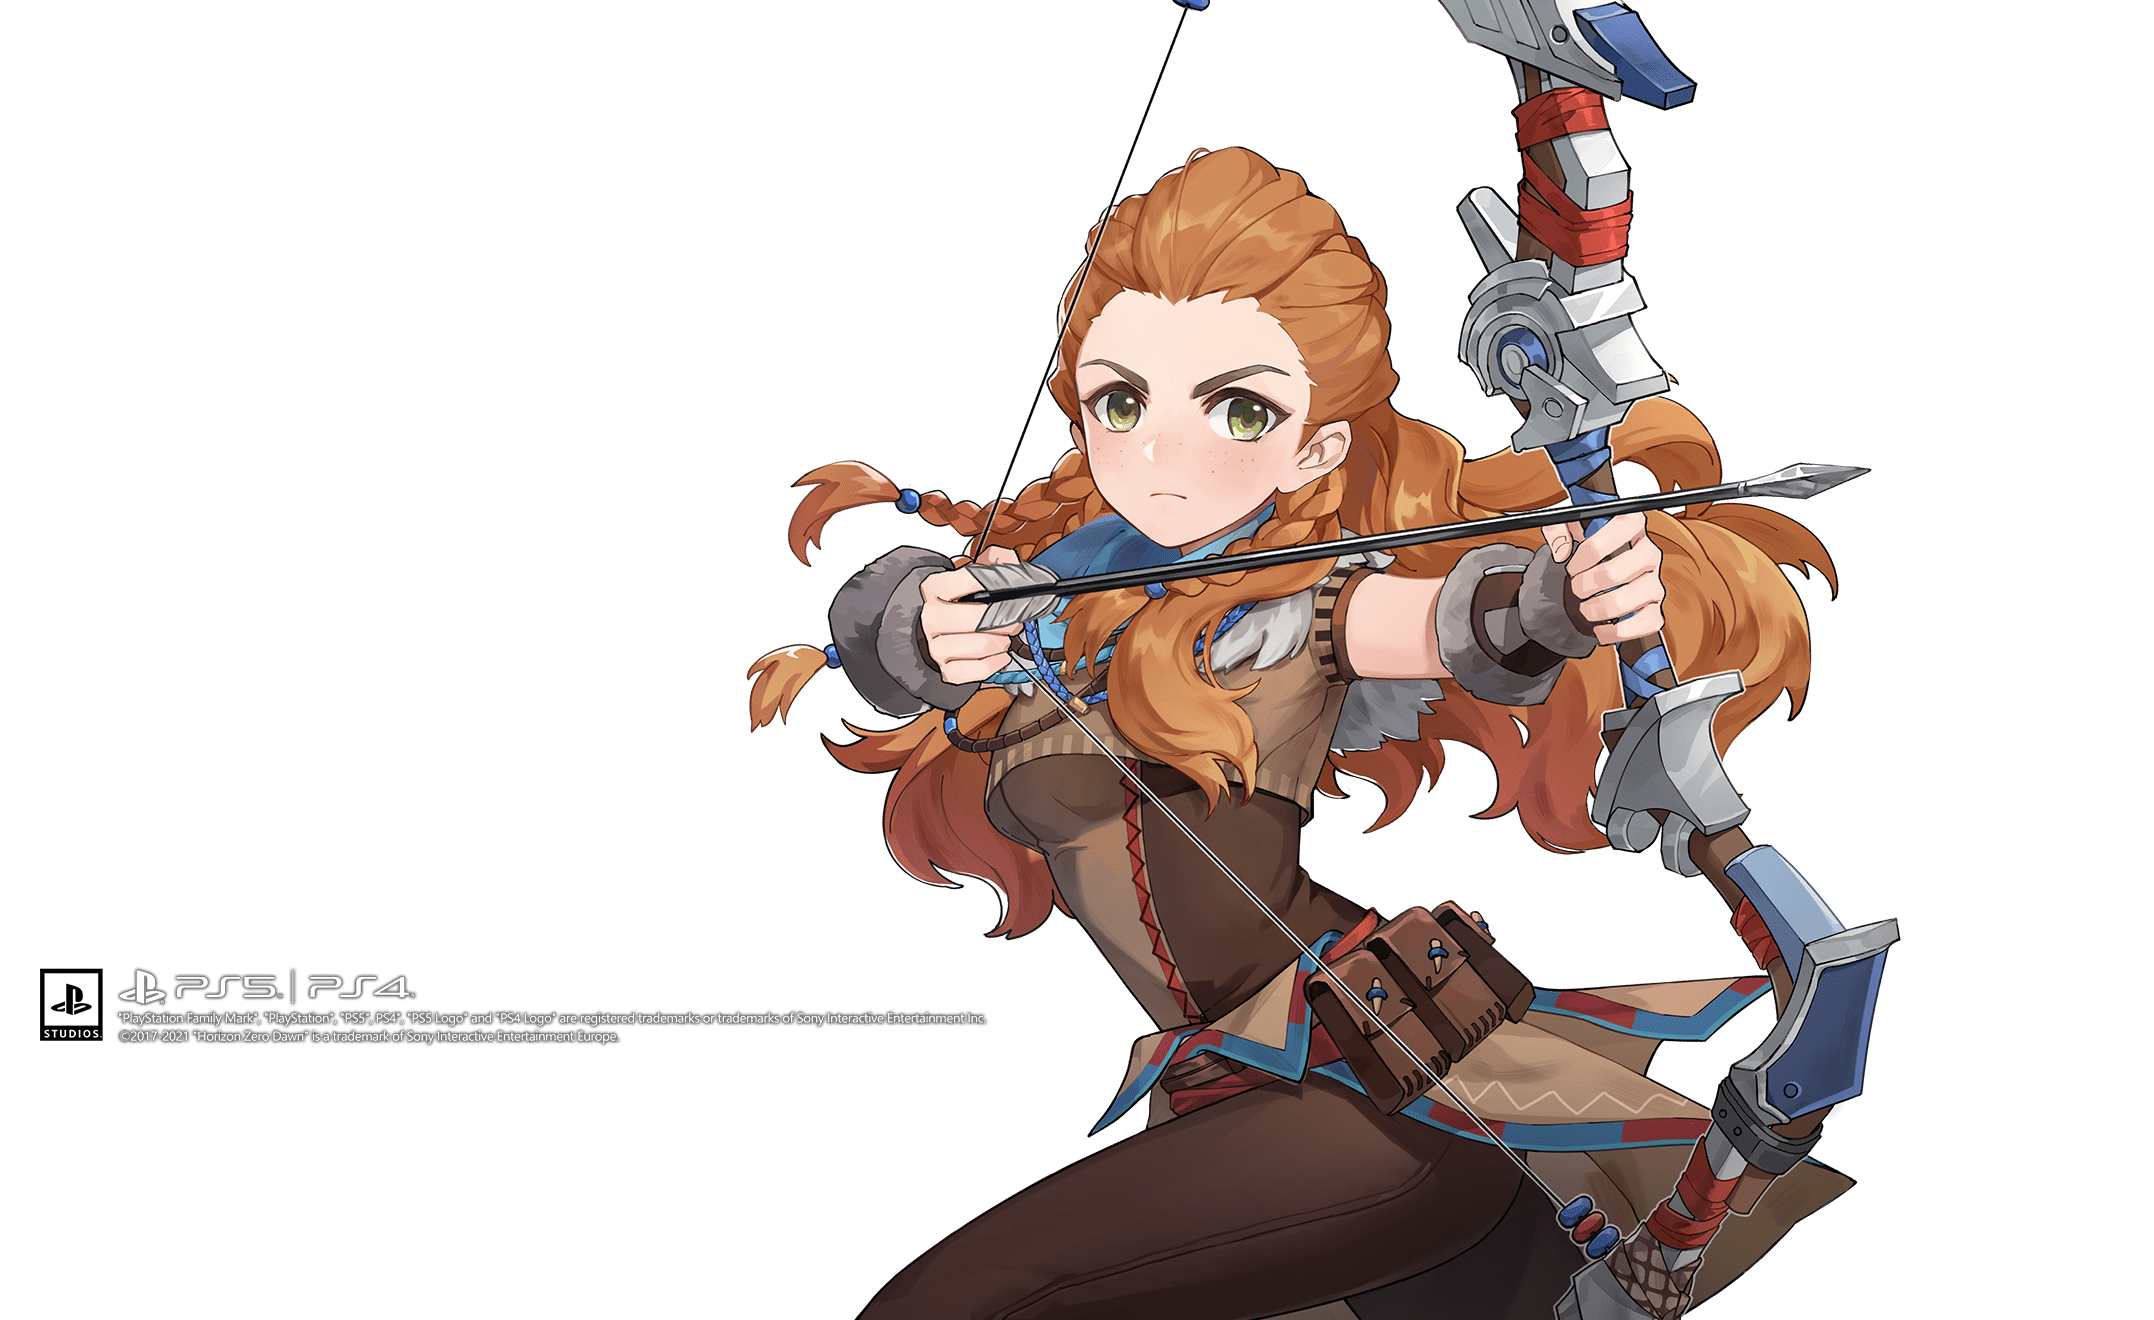
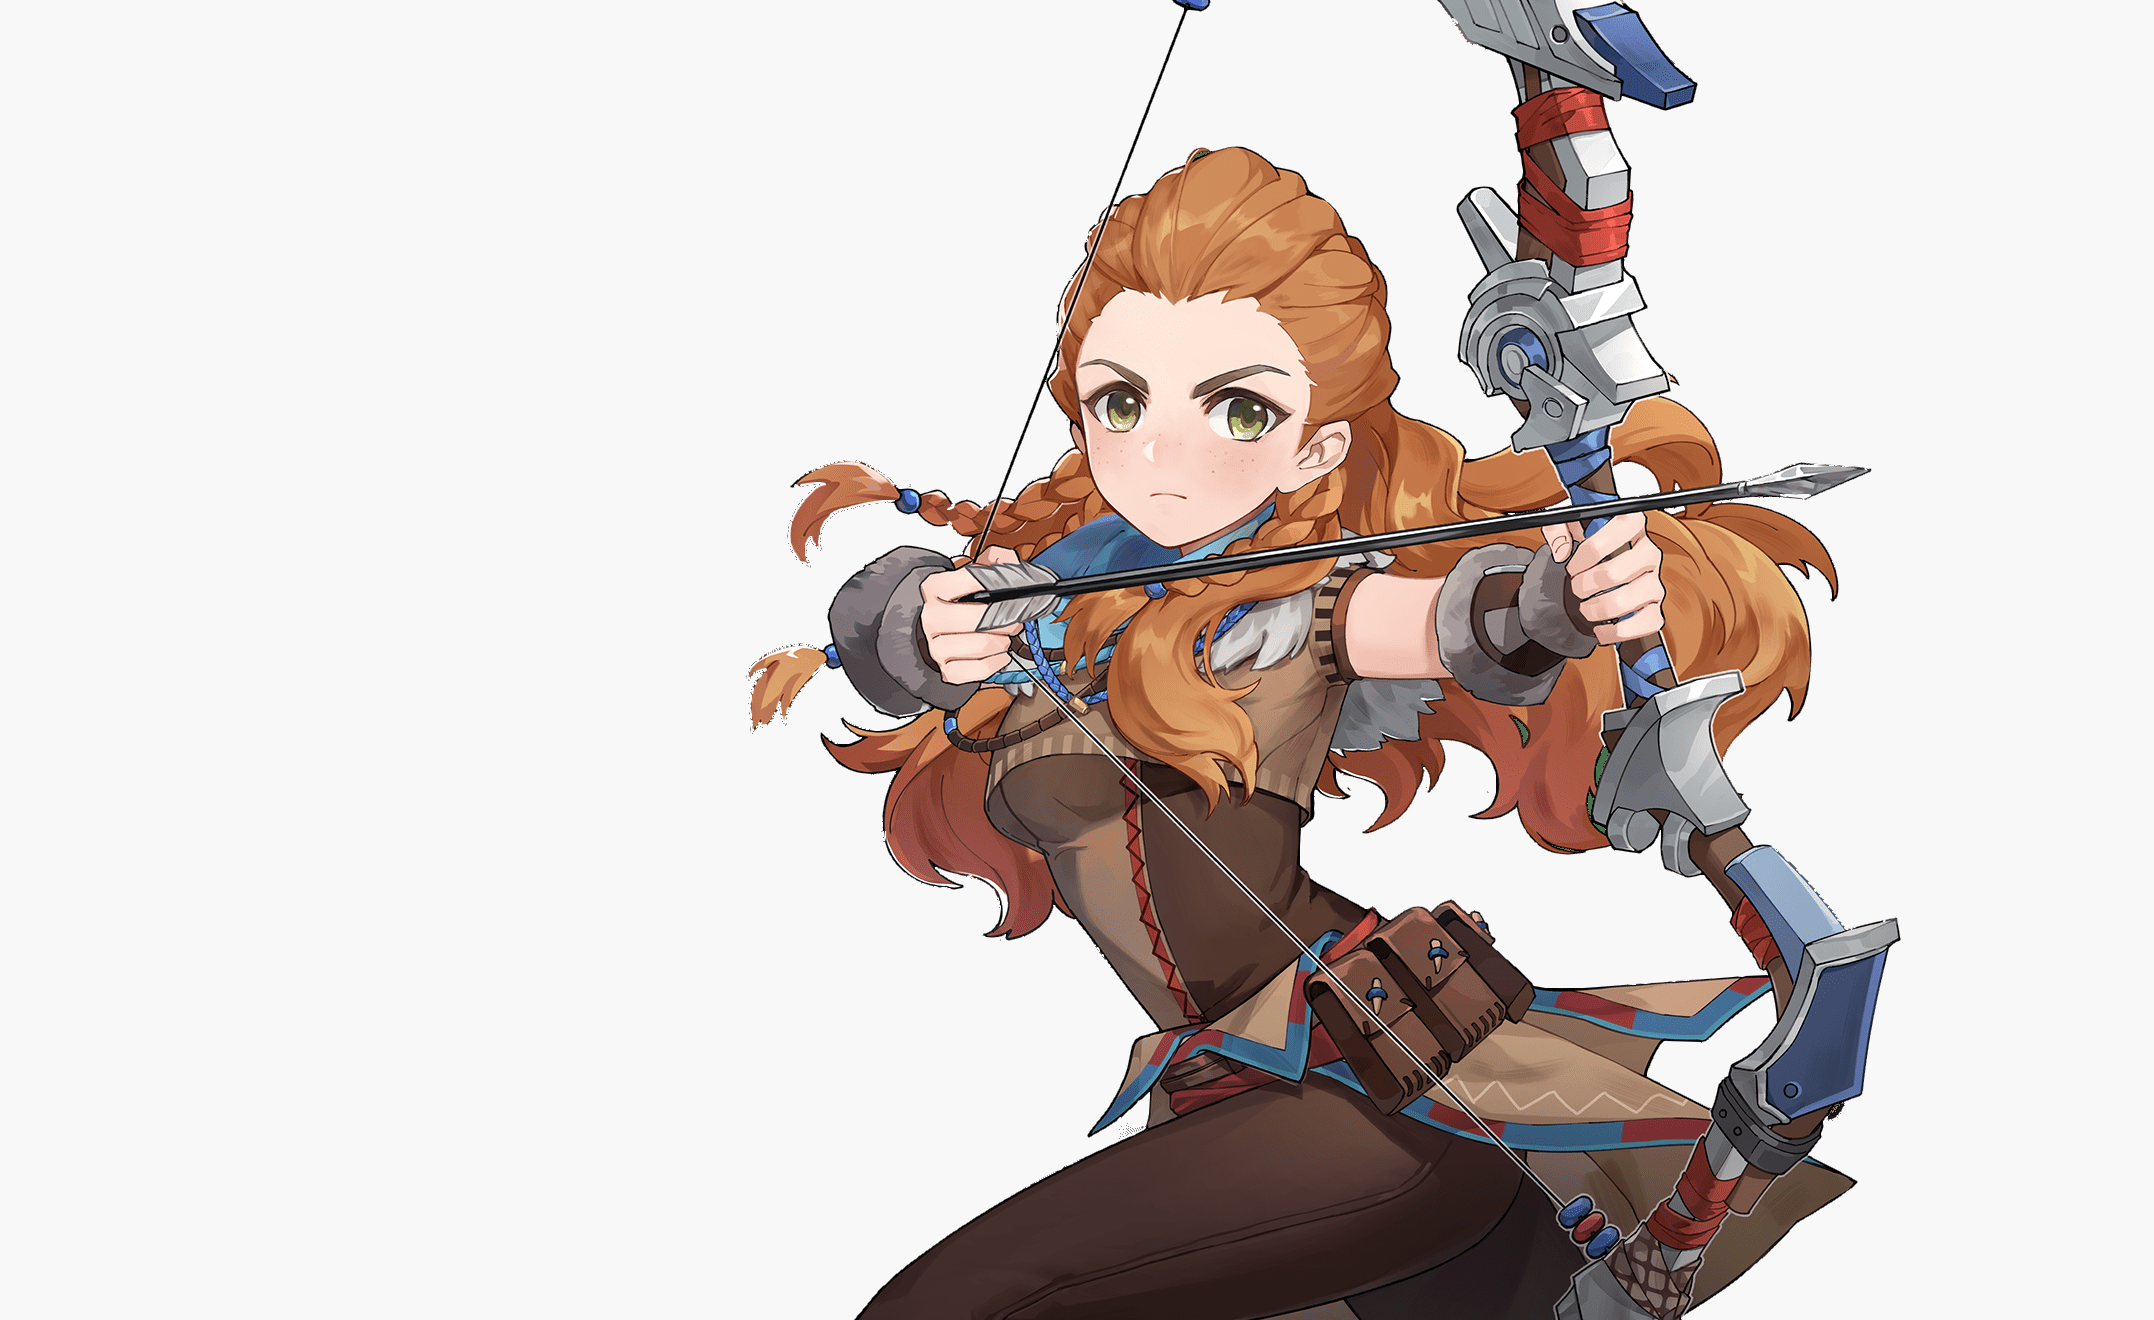
Arrumando imagem da Alloy que estava com escrita

Changed region(s): [[0.0, 0.7144, 0.4666, 0.8076], [0.3422, 0.528, 0.3733, 0.5591]]

diff --git a/src/components/Aside/Aside.jsx b/src/components/Aside/Aside.jsx
@@ -7,11 +7,6 @@ function Aside() {
     <h3>Filtre por Visão</h3>
     <ul className="charList">
       <li>Pyro</li>
-      <li>Hydro</li>
-      <li>Electro</li>
-      <li>Anemo</li>
-      <li>Cryo</li>
-      <li>Dendro</li>
     </ul>
     </aside>
   )
